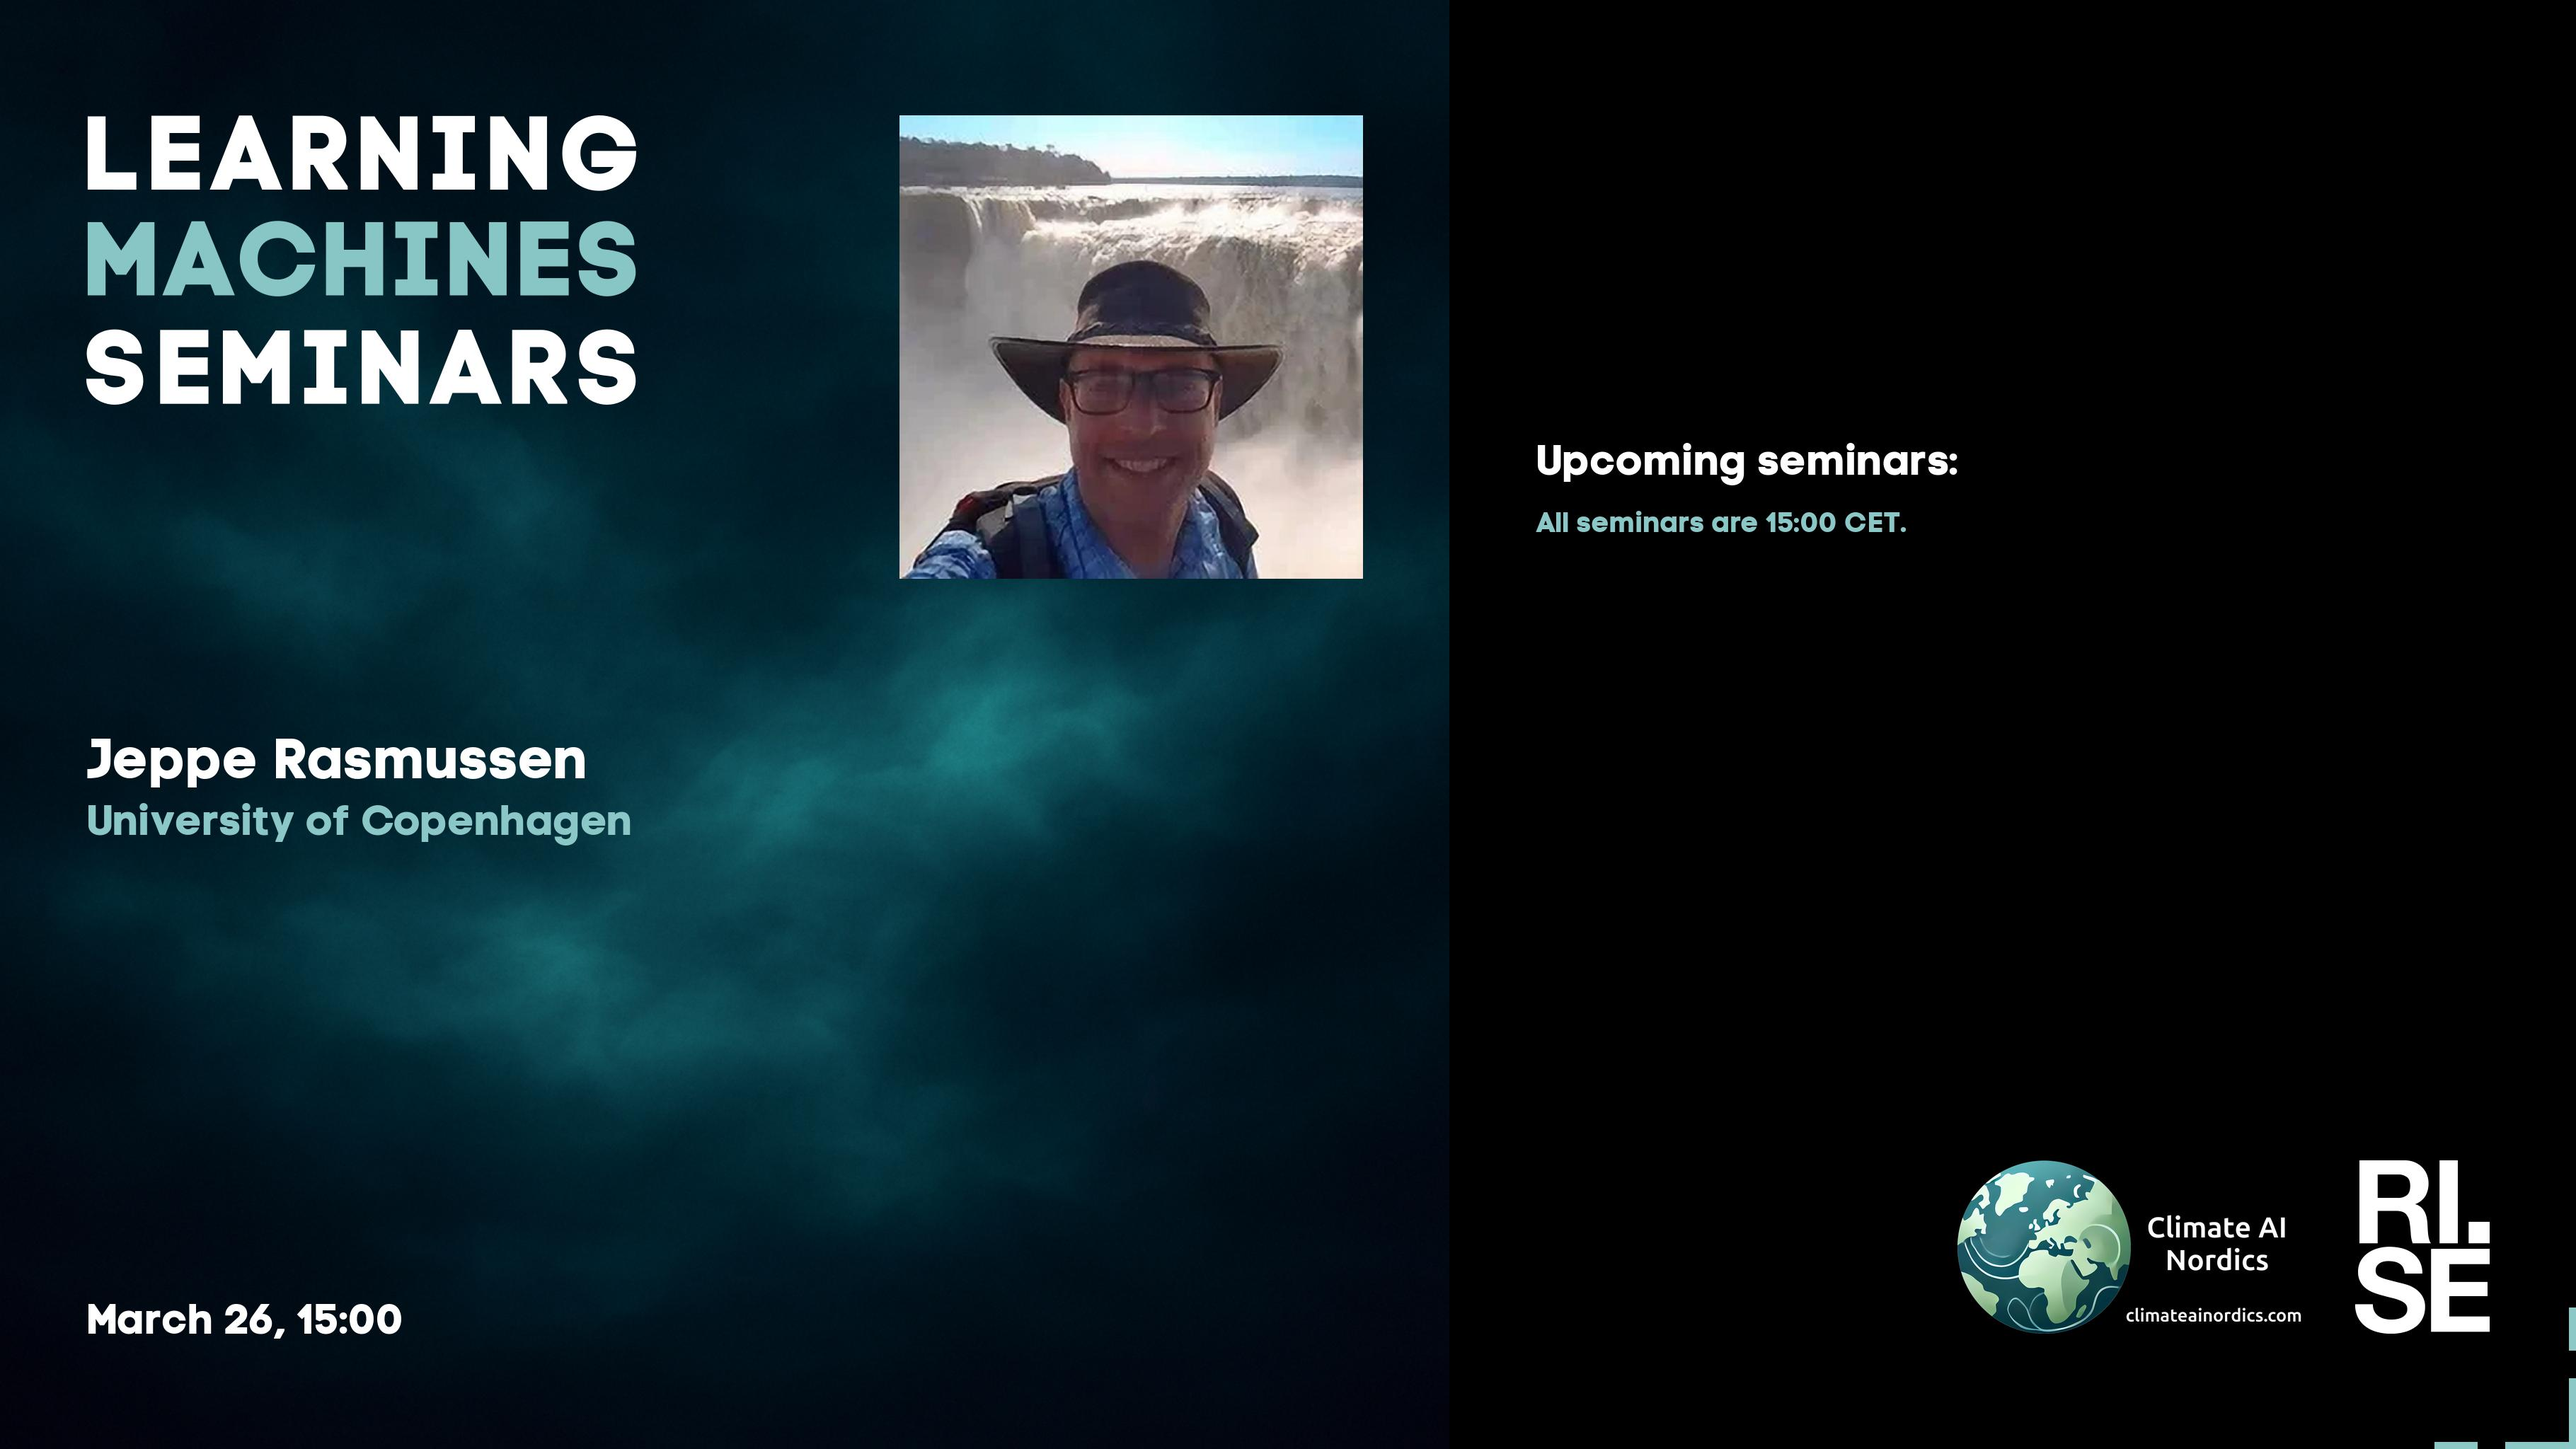
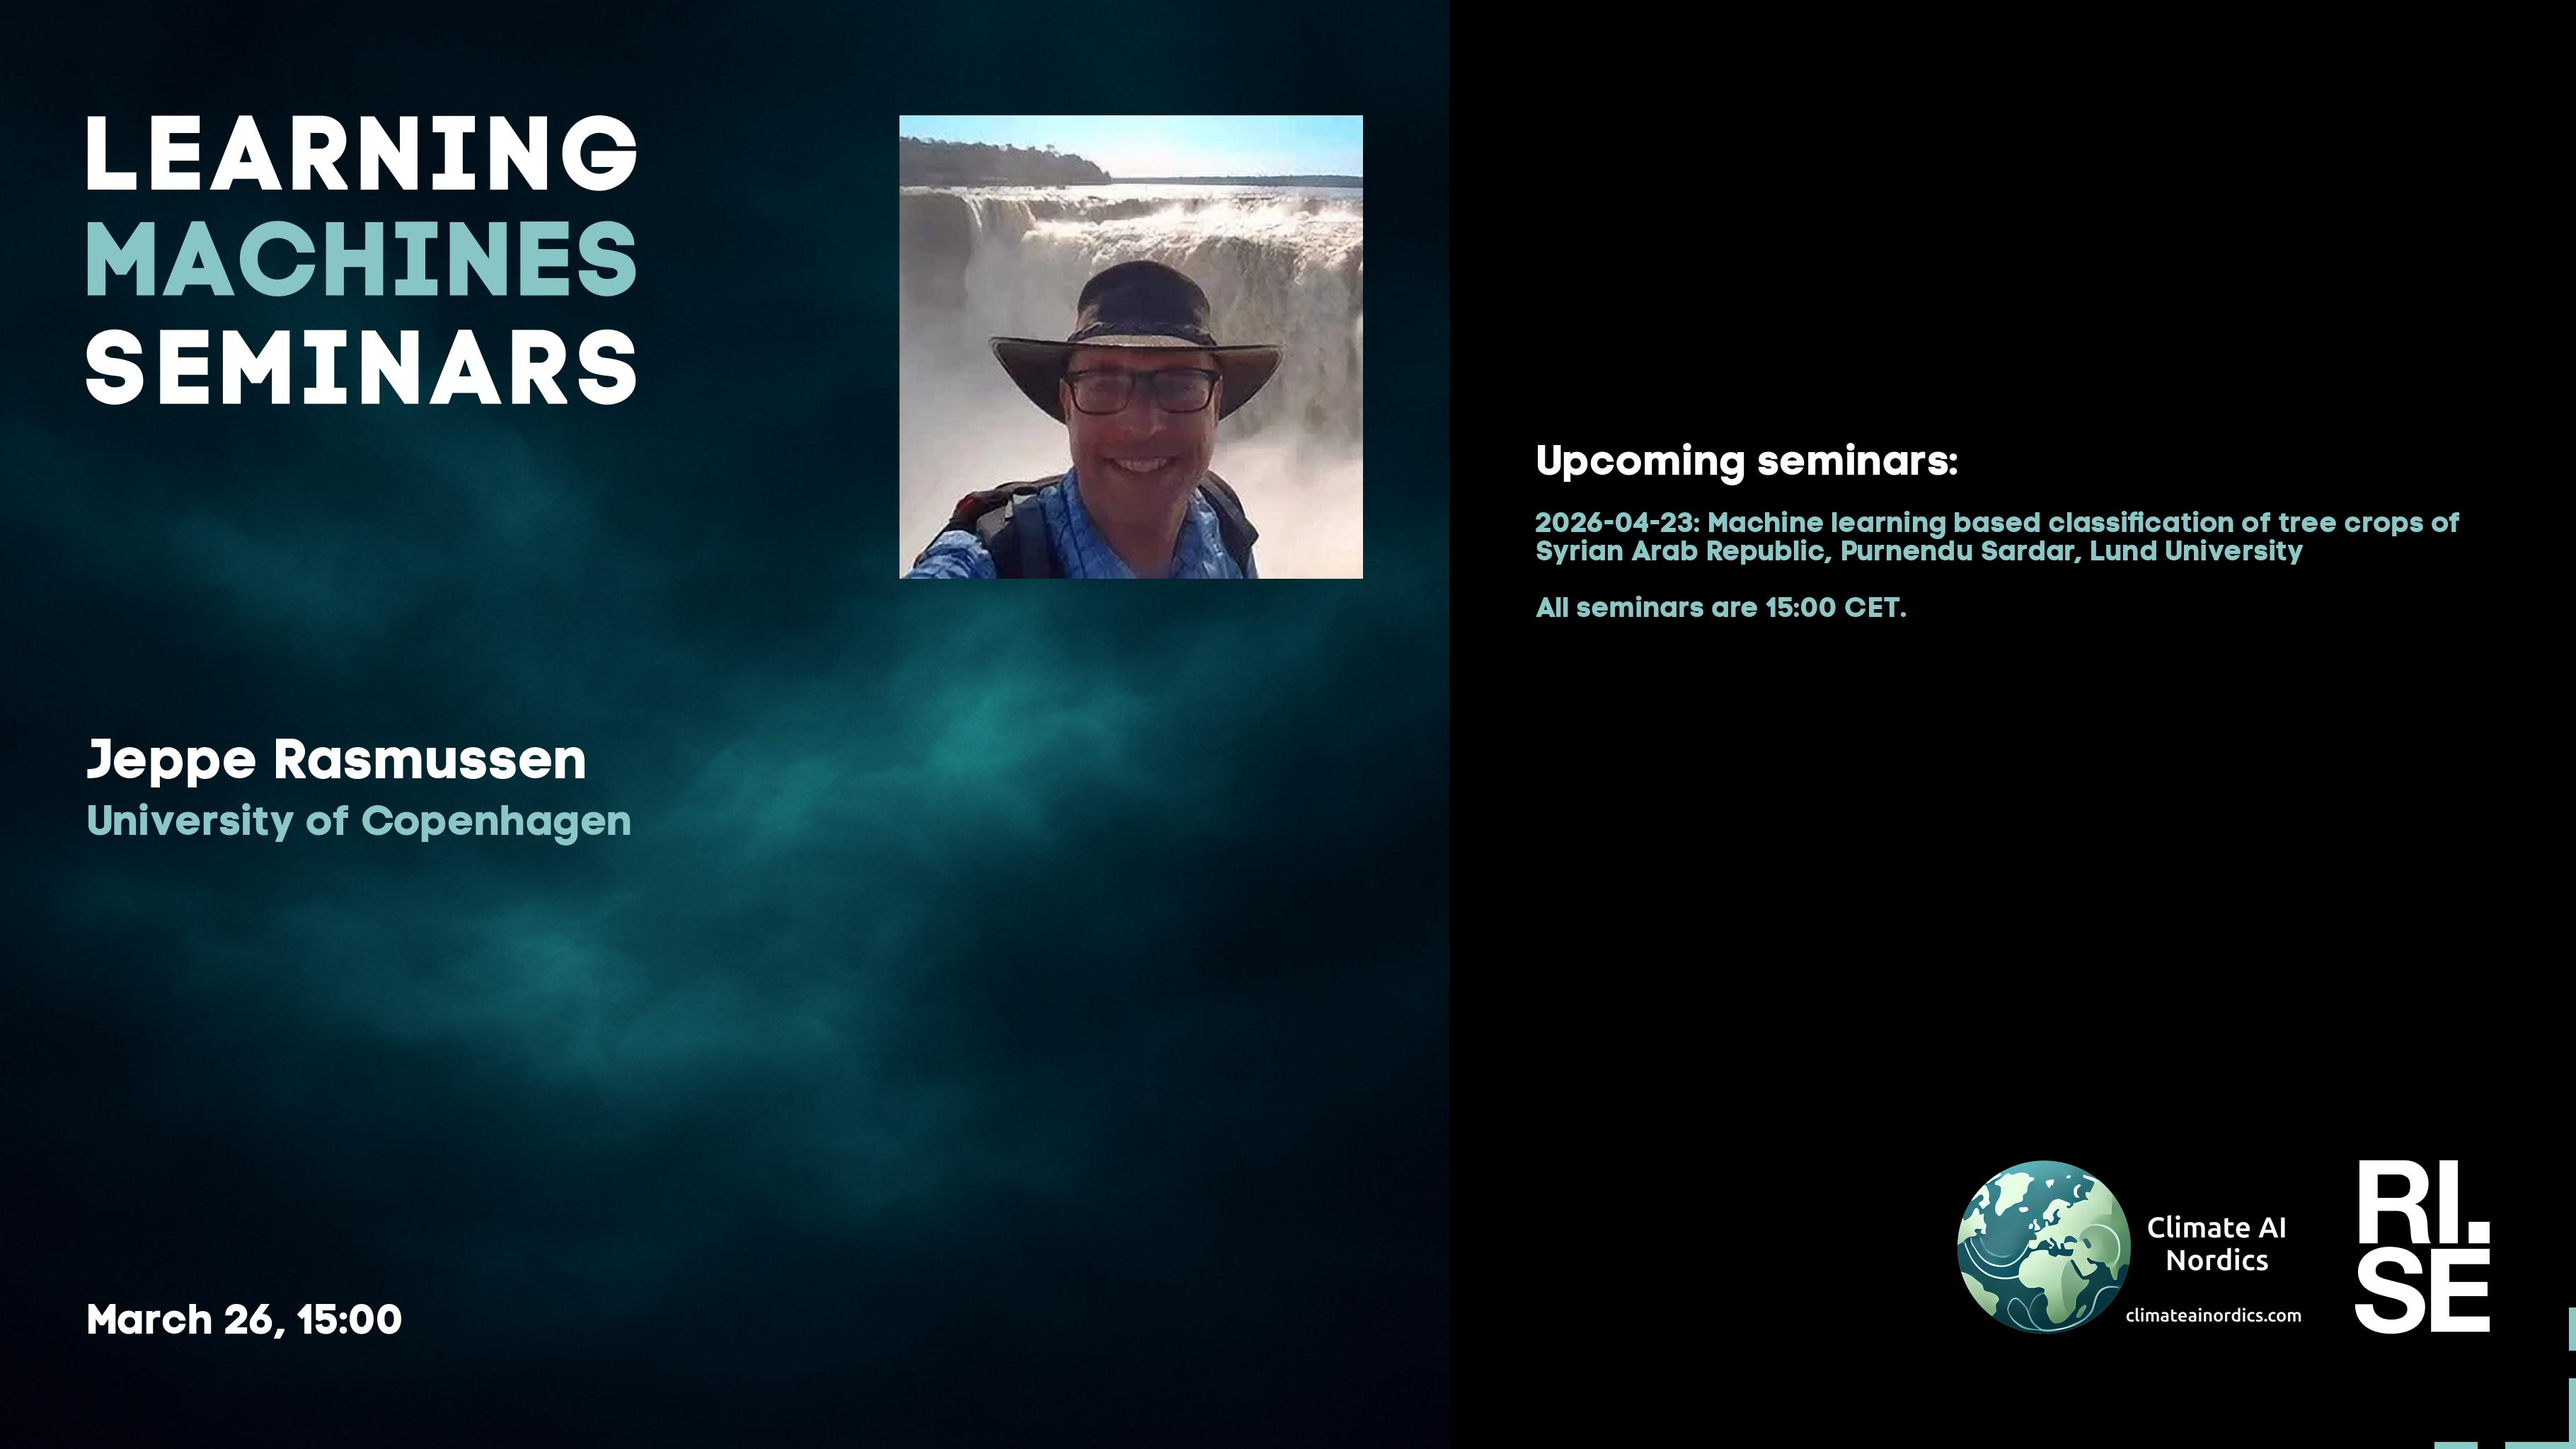
Updated plan on web site.

Changed region(s): [[0.5898, 0.3438, 0.9624, 0.4375]]

diff --git a/lm/2026.md b/lm/2026.md
@@ -16,7 +16,7 @@ table {border-collapse: collapse;}
 |  2026-03-19  |  [Isabelle Tingzon, RISE Research Institutes of Sweden](2026-03-19.md)  |  [photo](2026-03-19-photo-isabelle-tingzon.jpg)  |  [social media bg ](2026-03-19-social-media-bg-isabelle-tingzon.jpg) --- [social media photo ](2026-03-19-social-media-photo-isabelle-tingzon.jpg) --- [social media 169 ](2026-03-19-social-media-169-isabelle-tingzon.jpg)  |  [meeting backdrop ](2026-03-19-meeting-backdrop-isabelle-tingzon.jpg)  |  [youtube thumbnail ](2026-03-19-youtube-thumbnail-isabelle-tingzon.jpg)  |  STABP  |
 |  2026-03-26  |  [Jeppe Rasmussen, University of Copenhagen](2026-03-26.md)  |  [photo](2026-03-26-photo-jeppe-rasmussen.webp)  |  [social media bg ](2026-03-26-social-media-bg-jeppe-rasmussen.jpg) --- [social media photo ](2026-03-26-social-media-photo-jeppe-rasmussen.jpg) --- [social media 169 ](2026-03-26-social-media-169-jeppe-rasmussen.jpg)  |  [meeting backdrop ](2026-03-26-meeting-backdrop-jeppe-rasmussen.jpg)  |  [youtube thumbnail ](2026-03-26-youtube-thumbnail-jeppe-rasmussen.jpg)  |  S~~TAB~~P  |
 | <span style="color:red"> 2026-04-09 </span> | <span style="color:red"> Skärtorsdagen </span> | <span style="color:red">  </span> | <span style="color:red">  ---  ---  </span> | <span style="color:red">  </span> | <span style="color:red">  </span> | <span style="color:red"> CANCELLED </span> |
-|  2026-03-23  |  [Purnendu Sardar, Lund University](2026-03-23.md)  |    |  [social media bg ](2026-03-23-social-media-bg-purnendu-sardar.jpg) --- [social media photo ](2026-03-23-social-media-photo-purnendu-sardar.jpg) --- [social media 169 ](2026-03-23-social-media-169-purnendu-sardar.jpg)  |  [meeting backdrop ](2026-03-23-meeting-backdrop-purnendu-sardar.jpg)  |  [youtube thumbnail ](2026-03-23-youtube-thumbnail-purnendu-sardar.jpg)  |  STA~~BP~~  |
+|  2026-04-23  |  [Purnendu Sardar, Lund University](2026-04-23.md)  |    |  [social media bg ](2026-04-23-social-media-bg-purnendu-sardar.jpg) --- [social media photo ](2026-04-23-social-media-photo-purnendu-sardar.jpg) --- [social media 169 ](2026-04-23-social-media-169-purnendu-sardar.jpg)  |  [meeting backdrop ](2026-04-23-meeting-backdrop-purnendu-sardar.jpg)  |  [youtube thumbnail ](2026-04-23-youtube-thumbnail-purnendu-sardar.jpg)  |  STA~~BP~~  |
 | <span style="color:grey"> 2026-05-14 </span> | <span style="color:grey"> Kelsey D. ? </span> | <span style="color:grey">  </span> | <span style="color:grey">  ---  ---  </span> | <span style="color:grey">  </span> | <span style="color:grey">  </span> | <span style="color:grey"> S~~TABP~~ </span> |
 | <span style="color:grey"> 2026-05-28 </span> | <span style="color:grey"> Kelsey D. ? </span> | <span style="color:grey">  </span> | <span style="color:grey">  ---  ---  </span> | <span style="color:grey">  </span> | <span style="color:grey">  </span> | <span style="color:grey"> S~~TABP~~ </span> |
 | <span style="color:purple"> 2026-06-11 </span> | <span style="color:purple"> *Up for grabs!!!* </span> | <span style="color:purple">  </span> | <span style="color:purple">  ---  ---  </span> | <span style="color:purple">  </span> | <span style="color:purple">  </span> | <span style="color:purple"> ~~STABP~~ </span> |

diff --git a/lm/index.md b/lm/index.md
@@ -16,7 +16,7 @@ table {border-collapse: collapse;}
 |  2026-03-19  |  [Isabelle Tingzon, RISE Research Institutes of Sweden](2026-03-19.md)  |  [photo](2026-03-19-photo-isabelle-tingzon.jpg)  |  [social media bg ](2026-03-19-social-media-bg-isabelle-tingzon.jpg) --- [social media photo ](2026-03-19-social-media-photo-isabelle-tingzon.jpg) --- [social media 169 ](2026-03-19-social-media-169-isabelle-tingzon.jpg)  |  [meeting backdrop ](2026-03-19-meeting-backdrop-isabelle-tingzon.jpg)  |  [youtube thumbnail ](2026-03-19-youtube-thumbnail-isabelle-tingzon.jpg)  |  STABP  |
 |  2026-03-26  |  [Jeppe Rasmussen, University of Copenhagen](2026-03-26.md)  |  [photo](2026-03-26-photo-jeppe-rasmussen.webp)  |  [social media bg ](2026-03-26-social-media-bg-jeppe-rasmussen.jpg) --- [social media photo ](2026-03-26-social-media-photo-jeppe-rasmussen.jpg) --- [social media 169 ](2026-03-26-social-media-169-jeppe-rasmussen.jpg)  |  [meeting backdrop ](2026-03-26-meeting-backdrop-jeppe-rasmussen.jpg)  |  [youtube thumbnail ](2026-03-26-youtube-thumbnail-jeppe-rasmussen.jpg)  |  S~~TAB~~P  |
 | <span style="color:red"> 2026-04-09 </span> | <span style="color:red"> Skärtorsdagen </span> | <span style="color:red">  </span> | <span style="color:red">  ---  ---  </span> | <span style="color:red">  </span> | <span style="color:red">  </span> | <span style="color:red"> CANCELLED </span> |
-|  2026-03-23  |  [Purnendu Sardar, Lund University](2026-03-23.md)  |    |  [social media bg ](2026-03-23-social-media-bg-purnendu-sardar.jpg) --- [social media photo ](2026-03-23-social-media-photo-purnendu-sardar.jpg) --- [social media 169 ](2026-03-23-social-media-169-purnendu-sardar.jpg)  |  [meeting backdrop ](2026-03-23-meeting-backdrop-purnendu-sardar.jpg)  |  [youtube thumbnail ](2026-03-23-youtube-thumbnail-purnendu-sardar.jpg)  |  STA~~BP~~  |
+|  2026-04-23  |  [Purnendu Sardar, Lund University](2026-04-23.md)  |    |  [social media bg ](2026-04-23-social-media-bg-purnendu-sardar.jpg) --- [social media photo ](2026-04-23-social-media-photo-purnendu-sardar.jpg) --- [social media 169 ](2026-04-23-social-media-169-purnendu-sardar.jpg)  |  [meeting backdrop ](2026-04-23-meeting-backdrop-purnendu-sardar.jpg)  |  [youtube thumbnail ](2026-04-23-youtube-thumbnail-purnendu-sardar.jpg)  |  STA~~BP~~  |
 | <span style="color:grey"> 2026-05-14 </span> | <span style="color:grey"> Kelsey D. ? </span> | <span style="color:grey">  </span> | <span style="color:grey">  ---  ---  </span> | <span style="color:grey">  </span> | <span style="color:grey">  </span> | <span style="color:grey"> S~~TABP~~ </span> |
 | <span style="color:grey"> 2026-05-28 </span> | <span style="color:grey"> Kelsey D. ? </span> | <span style="color:grey">  </span> | <span style="color:grey">  ---  ---  </span> | <span style="color:grey">  </span> | <span style="color:grey">  </span> | <span style="color:grey"> S~~TABP~~ </span> |
 | <span style="color:purple"> 2026-06-11 </span> | <span style="color:purple"> *Up for grabs!!!* </span> | <span style="color:purple">  </span> | <span style="color:purple">  ---  ---  </span> | <span style="color:purple">  </span> | <span style="color:purple">  </span> | <span style="color:purple"> ~~STABP~~ </span> |

diff --git a/lm/2026-04-23.md b/lm/2026-04-23.md
@@ -1,0 +1,35 @@
+---
+layout: default
+metatags: "<meta name=\"robots\" content=\"noindex,nofollow\" />"
+---
+<img src="/lm/2026-04-23-social-media-169-purnendu-sardar.jpg" />
+ 
+Welcome to this week's Learning Machines seminar.
+
+**Title:** Machine learning based classification of tree crops of Syrian Arab Republic
+
+**Speaker:** Purnendu Sardar, Lund University
+
+**Abstract:** Accurate mapping of tree crops is vital for regional resource management, ecosystem service assessment, and the support of local livelihoods within the Syrian Arab Republic. Despite their socio-economic importance, tree crops are frequently misclassified or omitted in global and regional cropland products due to their complex spectral signatures and structural similarities to natural vegetation. This study proposes an integrated machine learning framework that combines the computational power of Google Earth Engine (GEE) with Python to enhance classification precision of tree crops across Syria.
+2026-04-30,cancelled?,,speaker-title,affiliation,confirmed,title,shorttitle,abstract&quot;
+
+**About the speaker:** N/A
+
+**Location:** This is an online seminar. Connect using Zoom.
+
+**Date:** 2026-04-23 15:00
+
+
+**[Register here!](registration-link)**
+
+
+**Upcoming seminars:**
+
+* All seminars are 15:00 CET.
+
+More information and coming seminars: [https://ri.se/lm-sem](https://ri.se/lm-sem)
+
+-- The Learning Machines Team
+
+**Zoom link:** [N/A](N/A)
+

diff --git a/lm/2026-03-19.md b/lm/2026-03-19.md
@@ -28,7 +28,7 @@ In parallel, the presentation showcases UNICEF Giga’s mission to connect every
 **Upcoming seminars:**
 
 * 2026-03-26: Jeppe Rasmussen, University of Copenhagen
-* 2026-03-23: Purnendu Sardar, Lund University
+* 2026-04-23: Purnendu Sardar, Lund University
 * All seminars are 15:00 CET.
 
 More information and coming seminars: [https://ri.se/lm-sem](https://ri.se/lm-sem)

diff --git a/lm/2026-03-26.md b/lm/2026-03-26.md
@@ -26,6 +26,7 @@ This seminar is a collaboration between RISE and Climate AI Nordics -- [climatea
 
 **Upcoming seminars:**
 
+* 2026-04-23: *Machine learning based classification of tree crops of Syrian Arab Republic*, Purnendu Sardar, Lund University
 * All seminars are 15:00 CET.
 
 More information and coming seminars: [https://ri.se/lm-sem](https://ri.se/lm-sem)
